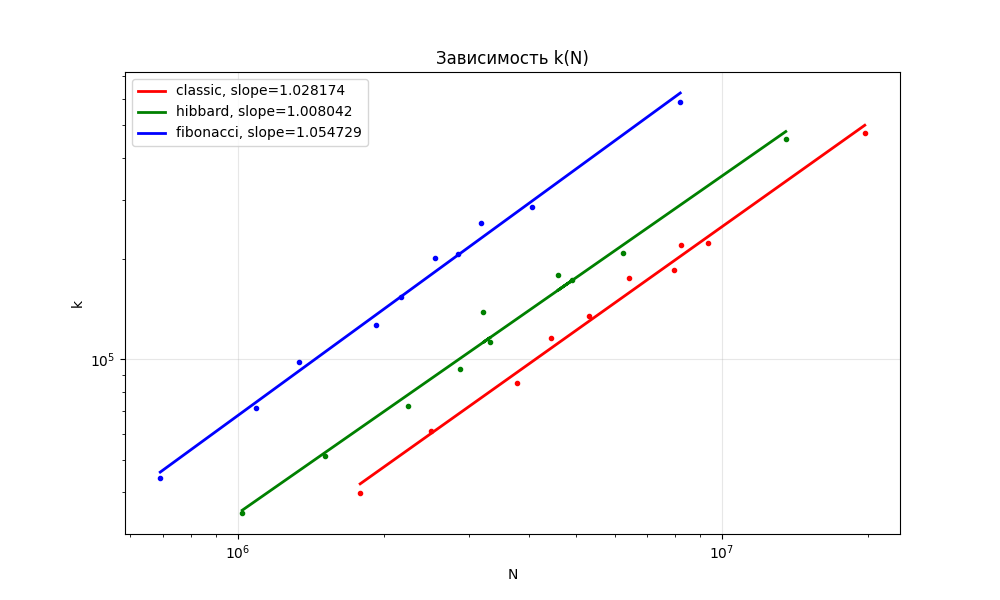
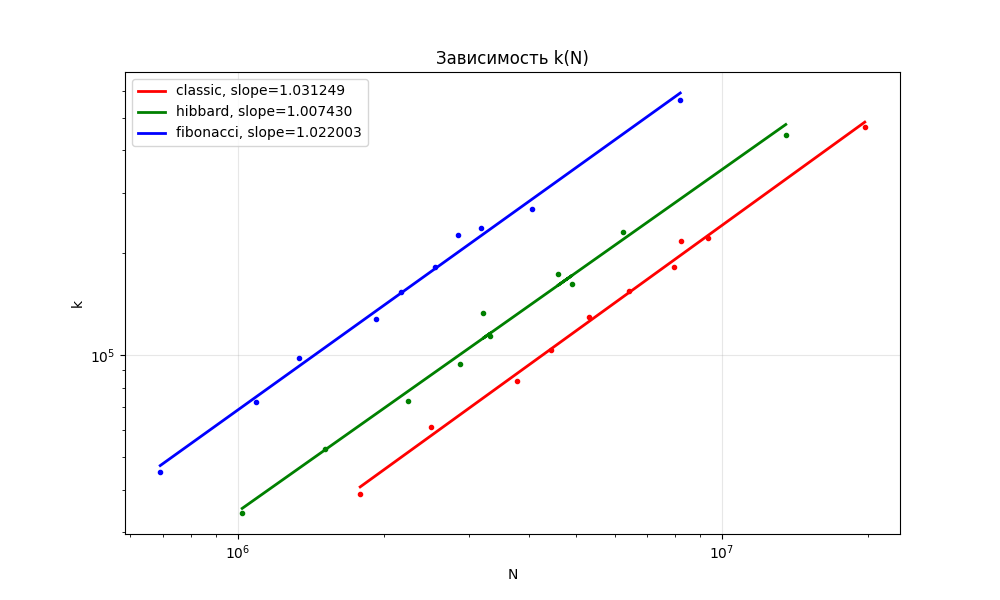
правки

diff --git a/sorting/graph_comb.py b/sorting/graph_comb.py
@@ -1,17 +1,31 @@
 import pandas as pd
 import matplotlib.pyplot as plt
+import numpy as np
 
-data = pd.read_csv('combSorto0.csv', index_col=0)
+data1 = pd.read_csv('/Users/olandrre/Desktop/asimptotic/sorting/combSorto01.csv', index_col=0)
+
+def slope(data):
+    x = np.log(data['swaps'])
+    y = np.log(data['time'])
+    k, b = np.polyfit(x, y, 1)
+    return k, b
+
+def line(data, color, label):
+    plt.plot(data['swaps'], data['time'], 'o', color=color, markersize=3)
+    k, b = slope(data)
+    x0 = np.log(data['swaps'])
+    y0 = np.exp(b) * (data['swaps'] ** k)
+    plt.plot(data['swaps'], y0, '-', color=color, linewidth=2, label=f'{label}, slope={k:1f}')
+    return k
 
 plt.figure(figsize=(10, 6))
-# plt.errorbar(data['elements'], data['time'], yerr=0, xerr=0, fmt='.', capsize=3, color='green')
-plt.errorbar(data['elements'], data['swaps'], yerr=0, xerr=0, fmt='.', capsize=3, color='blue')
 
+k1 = line(data1, 'red', 'classic')
 
 plt.xscale('log') 
 plt.yscale('log')  
 
-plt.ylabel('k')
+plt.ylabel('t')
 plt.xlabel('N')
 plt.grid(True, alpha=0.3)
 plt.title('Зависимость k(N)')

diff --git a/sorting/comb_sort.cpp b/sorting/comb_sort.cpp
@@ -41,7 +41,8 @@ long long measure_time(int N, default_random_engine &rng) {
 
     uniform_int_distribution<int> dstr(0, N - 1);
 
-    auto begin = chrono::steady_clock::now();
+    unsigned int total = 0;
+
     for (unsigned cnt = 10'000; cnt != 0; --cnt) {
         int* arr = new int[N];
  
@@ -49,11 +50,16 @@ long long measure_time(int N, default_random_engine &rng) {
             arr[idx] = dstr(rng);
         }
 
+            
+        auto begin = chrono::steady_clock::now();
         n = comb_sort(arr, N);
+        auto end = chrono::steady_clock::now();
+
+        total += chrono::duration_cast<chrono::microseconds>(end - begin).count();
         delete[] arr;
     }
-    auto end = chrono::steady_clock::now();
-    return chrono::duration_cast<chrono::milliseconds>(end - begin).count();
+
+    return total;
 }
 
 unsigned int iterations(int N, default_random_engine &rng) {
@@ -76,7 +82,7 @@ int main() {
     unsigned seed = 9;
     default_random_engine rng(seed);
 
-    ofstream file("combSorto0.csv");
+    ofstream file("combSorto01.csv");
     file << "index,elements,time,swaps" << endl;
     int elements[] = {100, 500, 1'000, 2'000, 3'000, 4'000, 5'000, 6'000, 7'000, 8'000, 9'000, 10'000};
     for (int idx = 0; idx < 12; ++idx) {

diff --git a/sorting/Shell_sort.cpp b/sorting/Shell_sort.cpp
@@ -92,8 +92,7 @@ int ShellSort_3(int* arr, int size) {
 
 long long measure_time(int N) {
     unsigned int n;
-
-    auto begin = chrono::steady_clock::now();
+    unsigned int total = 0;
 
     for (unsigned cnt = 5; cnt != 0; --cnt) {
         int* arr = new int[N];
@@ -102,13 +101,14 @@ long long measure_time(int N) {
         arr[idx] = N - idx;
         }
 
-
+        auto begin = chrono::steady_clock::now();
         n = ShellSort_3(arr, N);
+        auto end = chrono::steady_clock::now();
+        total += chrono::duration_cast<chrono::microseconds>(end - begin).count();
         delete[] arr;
     }
     
-    auto end = chrono::steady_clock::now();
-    return chrono::duration_cast<chrono::microseconds>(end - begin).count();
+    return total;
 }
 
 unsigned int iterations(int N) {

diff --git a/sorting/shell_sort.py b/sorting/shell_sort.py
@@ -2,9 +2,9 @@ import pandas as pd
 import matplotlib.pyplot as plt
 import numpy as np
 
-data1 = pd.read_csv('Shell_sort_1.csv', index_col=0)
-data2 = pd.read_csv('Shell_sort_2.csv', index_col=0)
-data3 = pd.read_csv('Shell_sort_3.csv', index_col=0)
+data1 = pd.read_csv('/Users/olandrre/Desktop/asimptotic/sorting/Shell_sort_1.csv', index_col=0)
+data2 = pd.read_csv('/Users/olandrre/Desktop/asimptotic/sorting/Shell_sort_2.csv', index_col=0)
+data3 = pd.read_csv('/Users/olandrre/Desktop/asimptotic/sorting/Shell_sort_3.csv', index_col=0)
 
 skip = 5
 
@@ -19,7 +19,7 @@ def line(data, color, label, skip):
     k, b = slope(data)
     x0 = np.log(data['elements'][skip:])
     y0 = np.exp(b) * (data['elements'][skip:] ** k)
-    plt.plot(data['elements'][skip::], y0, '-', color=color, linewidth=2, label=f'{label}, slope={k:1f}')
+    plt.plot(data['elements'][skip:], y0, '-', color=color, linewidth=2, label=f'{label}, slope={k:1f}')
     return k
 
 plt.figure(figsize=(10, 6))